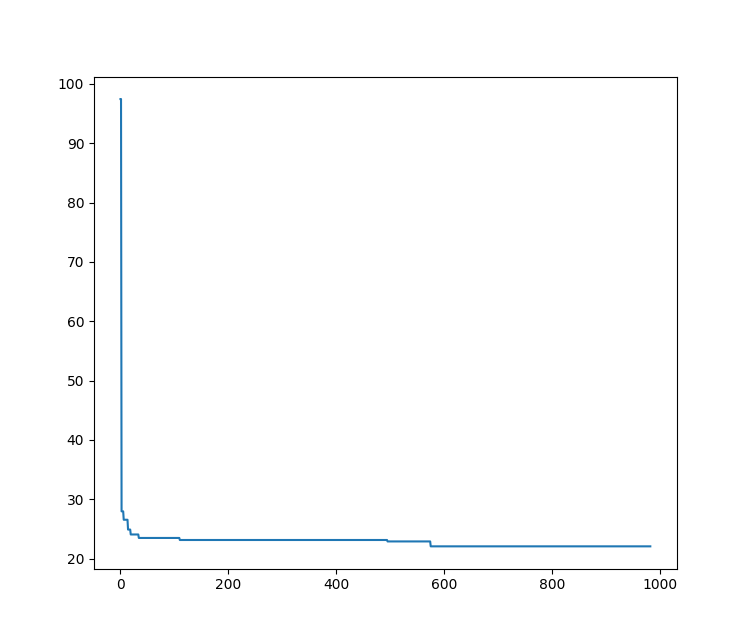
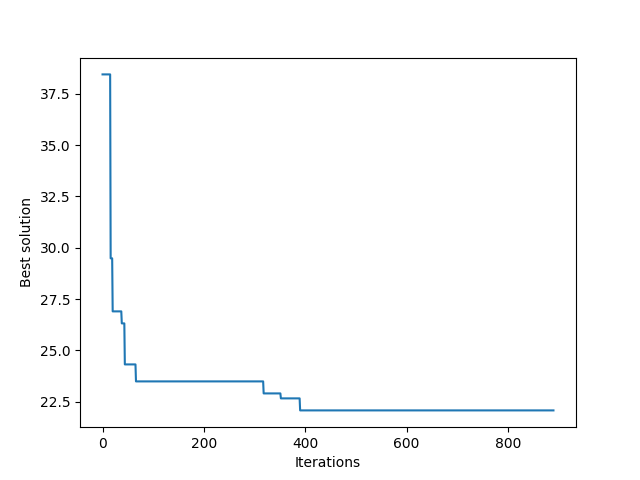
images

diff --git a/main.py b/main.py
@@ -14,7 +14,7 @@ if __name__ == '__main__':
         grid=grid, 
         source=0, 
         target=139,
-        pher_init = 0.1, ro = 0.5, Q = 5.0, alpha = 1.0, beta = 5.0, phi=8.0,
+        pher_init = 0.1, ro = 0.5, Q = 5.0, alpha = 1.0, beta = 5.0, phi=6.0,
         evaporate = False, max_iter = 1000, max_noimp = 500
     
     )
@@ -26,6 +26,8 @@ if __name__ == '__main__':
     print("Iterations required: ", aco.computations)
     grid.plot(path=path)
     plt.plot(aco.history)
+    plt.xlabel("Iterations")
+    plt.ylabel("Best solution")
     plt.show()
 
     print("A* best time is: ", astar_path_length(grid.G, 0, 139))
